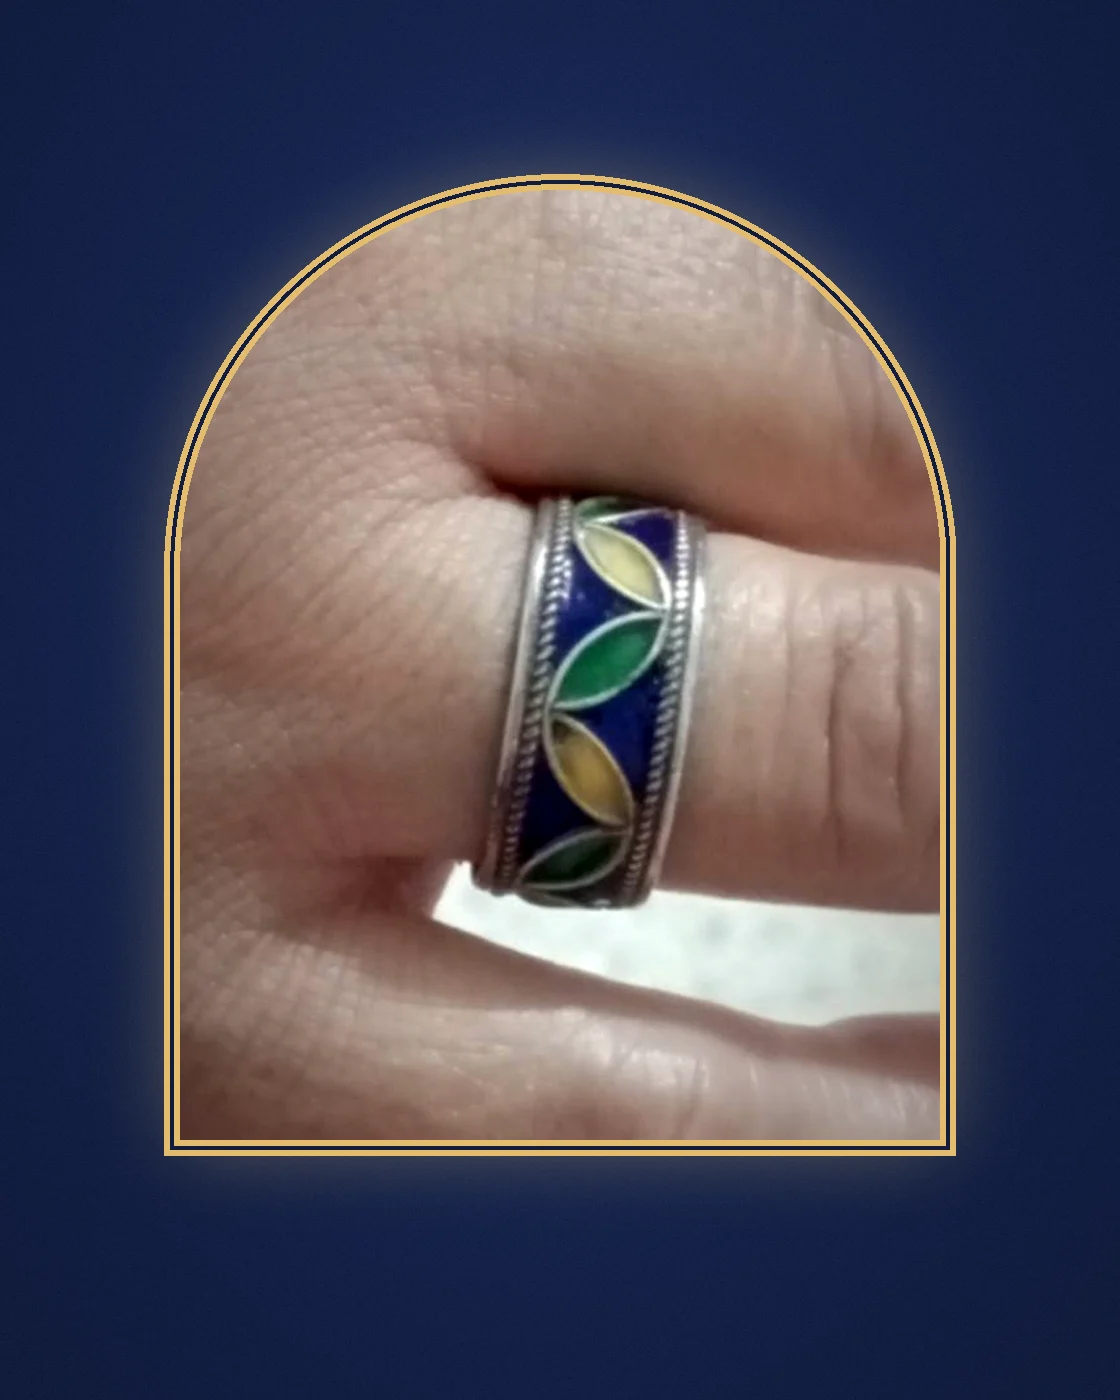
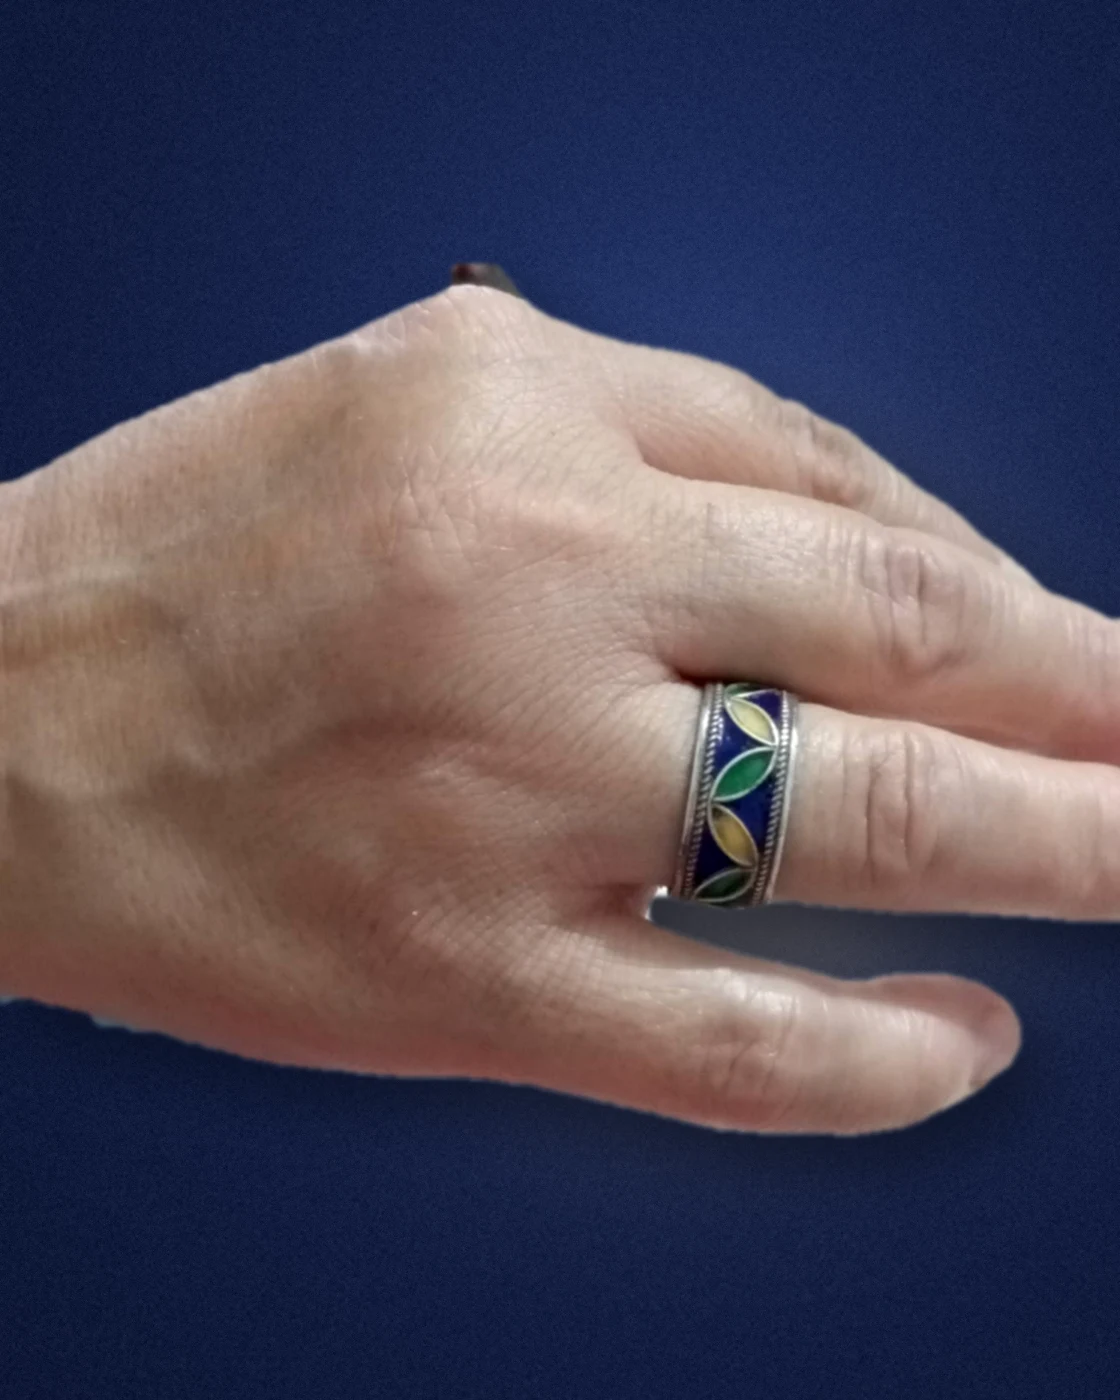
Livraison au tarif Colissimo 2026 selon le poids (sans signature), taille de doigt et supplément grandes tailles pour les bagues, nouvelles mises en scène des alliances
Claude-Session: https://claude.ai/code/session_014hYjydiWEDTx792WSyTSSe

diff --git a/src/maison.js b/src/maison.js
@@ -1,7 +1,7 @@
 // Données vivantes de la Maison : catalogue, fiche produit, panier, prochaine soirée.
 // Le navigateur n'utilise que la clé publique Supabase ; aucune donnée privée n'est lue ici.
 
-import { SHIPPING_METHODS, shippingFor, MAX_QTY, tvaIncluse, reglagesPropres } from '/assets/shipping.mjs';
+import { SHIPPING_METHODS, shippingFor, MAX_QTY, tvaIncluse, reglagesPropres, taillesDe, supplementTaille } from '/assets/shipping.mjs';
 
 // Frais d'envoi et TVA réglés par Lamia (le serveur recalcule toujours à la commande).
 let REGLAGES = reglagesPropres();
@@ -199,6 +199,8 @@ function preorderForm(p) {
     <h2>Acheter</h2>
     ${p.is_unique ? '<p class="fine">Pièce unique : dès qu’elle est achetée, elle n’est plus disponible.</p>' : ''}
     ${delai ? `<p class="delai-livraison">${delai}</p>` : ''}
+    ${taillesDe(p).length ? `<label>Taille de doigt<select name="taille" required><option value="">Choisis ta taille</option>${taillesDe(p).map((t) => `<option value="${t}">${t}${supplementTaille(p, t) ? ` (+${money(supplementTaille(p, t))})` : ''}</option>`).join('')}</select></label>
+    <details class="guide-taille"><summary>Comment connaître ta taille ?</summary><p>La taille française correspond au <strong>tour de ton doigt en millimètres</strong>. Entoure la base de ton doigt avec un fil ou une bande de papier, marque l’endroit où il se rejoint, puis mesure la longueur à plat : 54 mm = taille 54. Mesure en fin de journée, quand les doigts sont un peu plus gros, et en cas d’hésitation choisis la taille au-dessus.</p><p>Tu as déjà une bague qui te va ? Mesure son diamètre intérieur en mm et multiplie par 3,14 : c’est ta taille.</p></details>` : ''}
     ${max > 1 ? `<label>Quantité<select name="qty">${Array.from({ length: max }, (_, i) => `<option>${i + 1}</option>`).join('')}</select></label>` : '<input type="hidden" name="qty" value="1">'}
     ${digital ? '' : `<fieldset><legend>Livraison</legend>
       <label class="check"><input type="radio" name="method" value="colissimo" checked><span>${SHIPPING_METHODS.colissimo.label} <small data-ship-price></small><br><small>${SHIPPING_METHODS.colissimo.delay}</small></span></label>
@@ -238,7 +240,8 @@ function wirePreorder(p, box) {
     if (sp) sp.textContent = `(${money(col.cents)})`;
     const addr = $('[data-address]', form);
     if (addr) addr.hidden = ship.method !== 'colissimo';
-    const total = p.price_cents * qty + ship.cents, tva = tvaIncluse(total, REGLAGES.tva);
+    const unit = p.price_cents + (form.elements.taille ? supplementTaille(p, form.elements.taille.value) : 0);
+    const total = unit * qty + ship.cents, tva = tvaIncluse(total, REGLAGES.tva);
     $('[data-total]', form).textContent = `${money(total, p.currency)}${ship.cents ? ` dont ${money(ship.cents)} d’envoi` : ''}${tva ? ` · dont TVA ${String(REGLAGES.tva.taux).replace('.', ',')} % : ${money(tva)}` : ''}`;
   };
   form.addEventListener('change', update);
@@ -249,11 +252,12 @@ function wirePreorder(p, box) {
     const st = $('[data-preorder-status]', form);
     const f = form.elements;
     const say = (m, err) => { st.textContent = m; st.classList.toggle('is-error', !!err); };
+    if (f.taille && !f.taille.value) { f.taille.focus(); return say('Choisis ta taille de doigt pour continuer.', true); }
     if (!f.cgv.checked) return say('Coche la case des conditions de vente pour continuer.', true);
     const btn = form.querySelector('[type=submit]');
     btn.disabled = true; btn.textContent = 'Ouverture du paiement sécurisé…';
     const body = {
-      slug: p.slug, qty: f.qty.value, name: f.name.value, email: f.email.value, phone: f.phone.value,
+      slug: p.slug, qty: f.qty.value, taille: f.taille ? f.taille.value : undefined, name: f.name.value, email: f.email.value, phone: f.phone.value,
       method: f.method ? form.querySelector('[name=method]:checked').value : 'email',
       address: f.line1 ? { line1: f.line1.value, line2: f.line2.value, postal_code: f.postal_code.value, city: f.city.value } : null,
       message: f.message.value, website: f.website.value, cgv_accepted: true,
@@ -272,7 +276,7 @@ function wirePreorder(p, box) {
       form.innerHTML = `<h2>Merci, ta commande est enregistrée.</h2><p>Numéro de commande : <strong>${esc(r.order_number)}</strong></p><p>${r.waitlist ? 'Cette pièce unique est déjà réservée : tu es inscrite en liste d’attente. Lamia te prévient si elle se libère.' : `Lamia t’envoie par email le lien de paiement sécurisé. Total : ${money(r.total_cents)}.${delaiLivraison(p) ? ` ${delaiLivraison(p).replace(/<[^>]+>/g, '')}` : ''}`}</p>`;
       return;
     }
-    const msg = { invalid_contact: 'Vérifie ton nom et ton adresse email.', invalid_address: 'Vérifie ton adresse : rue, code postal à 5 chiffres et ville.', product_unavailable: 'Cette pièce vient d’être vendue, désolée.', paiement_en_cours: 'Quelqu’un est en train d’acheter cette pièce. Reviens dans 30 minutes : si le paiement n’aboutit pas, elle sera de nouveau disponible.', stock_insuffisant: `Il n’en reste que ${r.stock}. Choisis une quantité plus petite.`, paiement_indisponible: 'Le paiement sécurisé ne répond pas pour le moment. Réessaie dans un instant.' };
+    const msg = { invalid_contact: 'Vérifie ton nom et ton adresse email.', invalid_address: 'Vérifie ton adresse : rue, code postal à 5 chiffres et ville.', product_unavailable: 'Cette pièce vient d’être vendue, désolée.', paiement_en_cours: 'Quelqu’un est en train d’acheter cette pièce. Reviens dans 30 minutes : si le paiement n’aboutit pas, elle sera de nouveau disponible.', stock_insuffisant: `Il n’en reste que ${r.stock}. Choisis une quantité plus petite.`, paiement_indisponible: 'Le paiement sécurisé ne répond pas pour le moment. Réessaie dans un instant.', taille_requise: 'Choisis ta taille de doigt pour continuer.' };
     say(msg[r.error] || 'Le paiement n’a pas pu s’ouvrir. Réessaie dans un instant.', true);
   });
 }

diff --git a/public/tableau.js b/public/tableau.js
@@ -186,7 +186,7 @@ async function chargerReglages() {
   try {
     const r = await (await fetch('/api/admin?action=boutique', { cache: 'no-store' })).json();
     const f = $('[data-reglages]');
-    for (const k of ['colis_1', 'colis_2_3', 'colis_4_plus', 'bijou']) f.elements[k].value = (r.tarifs[k] / 100).toFixed(2);
+    for (const k of ['g250', 'g500', 'g750', 'g1000', 'g2000', 'g5000']) f.elements[k].value = (r.tarifs[k] / 100).toFixed(2);
     f.elements.tva_active.checked = r.tva.active; f.elements.tva_taux.value = r.tva.taux; f.elements.tva_mention.value = r.tva.mention || '';
   } catch { /* */ }
 }
@@ -195,7 +195,7 @@ $('[data-reglages]')?.addEventListener('submit', async (e) => {
   const f = e.target, st = $('[data-reglages-status]');
   const c = (k) => Math.round(parseFloat(String(f.elements[k].value).replace(',', '.')) * 100);
   try {
-    await api({ action: 'boutique_save', reglages: { tarifs: { colis_1: c('colis_1'), colis_2_3: c('colis_2_3'), colis_4_plus: c('colis_4_plus'), bijou: c('bijou') }, tva: { active: f.elements.tva_active.checked, taux: Number(f.elements.tva_taux.value), mention: f.elements.tva_mention.value } } });
+    await api({ action: 'boutique_save', reglages: { tarifs: Object.fromEntries(['g250', 'g500', 'g750', 'g1000', 'g2000', 'g5000'].map((k) => [k, c(k)])), tva: { active: f.elements.tva_active.checked, taux: Number(f.elements.tva_taux.value), mention: f.elements.tva_mention.value } } });
     st.textContent = 'Réglages enregistrés. Pense à « Publier » pour mettre à jour les conditions de vente.';
   } catch (err) { st.textContent = err.message; }
 });
@@ -228,6 +228,12 @@ function editer(p) {
     f.elements.is_unique.checked = !!p.is_unique; f.elements.featured.checked = !!p.featured;
     edition.photos = (Array.isArray(p.gallery) ? p.gallery : []).map((g) => (typeof g === 'string' ? { url: g } : g)).filter((g) => g.url);
     edition.metadata = p.metadata;
+    const m = p.metadata || {};
+    f.elements.poids_colis_g.value = m.poids_colis_g || '';
+    const t = Array.isArray(m.tailles) ? m.tailles : [];
+    f.elements.tailles.value = t.length ? `${Math.min(...t)}-${Math.max(...t)}` : '';
+    f.elements.supp_cents.value = m.supplement_taille?.cents ? (m.supplement_taille.cents / 100).toFixed(2) : '';
+    f.elements.supp_seuil.value = m.supplement_taille?.a_partir_de || '';
     // Le collier a des photos d'origine intégrées au site : on les propose pour pouvoir les réordonner ou les remplacer.
     if (!edition.photos.length && p.slug === 'collier-kabyle-argente-emaille-15g') edition.photos = ['hero', 'porte', 'detail', 'ecrin'].map((v) => ({ url: `/images/collier/collier-kabyle-15g-${v}-1120.webp` }));
     const voir = $('[data-produit-voir]'); voir.hidden = false; voir.href = `/produit/?p=${encodeURIComponent(p.slug)}`;
@@ -280,11 +286,18 @@ $('[data-produit-form]').addEventListener('submit', async (e) => {
   e.preventDefault();
   const f = e.target, st = $('[data-produit-status]');
   const val = (k) => f.elements[k].value;
+  // Poids d'envoi, tailles de bague et supplément : rangés dans les informations du produit.
+  const meta = { ...(edition.metadata || {}) };
+  const poids = parseInt(val('poids_colis_g'), 10); if (poids > 0) meta.poids_colis_g = poids; else delete meta.poids_colis_g;
+  const mt = String(val('tailles')).match(/(\d{2})\s*[-–à]\s*(\d{2})/);
+  if (mt) { const [a, b] = [Number(mt[1]), Number(mt[2])].sort((x, y) => x - y); meta.tailles = Array.from({ length: b - a + 1 }, (_, i) => a + i); } else delete meta.tailles;
+  const sc = Math.round(parseFloat(String(val('supp_cents')).replace(',', '.')) * 100), ss = parseInt(val('supp_seuil'), 10);
+  if (meta.tailles && sc > 0 && ss) meta.supplement_taille = { cents: sc, a_partir_de: ss }; else delete meta.supplement_taille;
   const product = {
     id: val('id') || undefined, slug: val('slug') || undefined, name: val('name'), subtitle: val('subtitle'), description: val('description'),
     price_cents: Math.round(parseFloat(val('price').replace(',', '.')) * 100), compare_at_price_cents: val('compare') ? Math.round(parseFloat(val('compare').replace(',', '.')) * 100) : null,
     stock_qty: Number(val('stock_qty')), category_id: val('category_id'), product_type: val('product_type'), status: val('status'),
-    is_unique: f.elements.is_unique.checked, featured: f.elements.featured.checked, gallery: edition.photos, metadata: edition.metadata,
+    is_unique: f.elements.is_unique.checked, featured: f.elements.featured.checked, gallery: edition.photos, metadata: meta,
   };
   st.textContent = 'Enregistrement…';
   try {

diff --git a/public/tableau-de-bord.html b/public/tableau-de-bord.html
@@ -78,12 +78,14 @@
 
     <form class="tdb-carte reglages" data-reglages>
       <h2>Livraison et TVA</h2>
-      <p class="aide">Ces montants s’appliquent tout de suite aux commandes. Les conditions de vente se mettent à jour quand tu cliques sur « Publier » (onglet Textes &amp; images).</p>
+      <p class="aide">Envoi Colissimo suivi, sans signature, selon le poids du colis (grille La Poste 2026 par défaut). Le poids de chaque produit se règle dans sa fiche. Ces montants s’appliquent tout de suite aux commandes. Les conditions de vente se mettent à jour quand tu cliques sur « Publier » (onglet Textes &amp; images).</p>
       <div class="champs">
-        <label>Envoi livre ou objet, 1 exemplaire (€)<input name="colis_1" type="number" step="0.01" min="0"></label>
-        <label>2 ou 3 exemplaires (€)<input name="colis_2_3" type="number" step="0.01" min="0"></label>
-        <label>4 exemplaires et plus (€)<input name="colis_4_plus" type="number" step="0.01" min="0"></label>
-        <label>Envoi d’un bijou, suivi et assuré (€)<input name="bijou" type="number" step="0.01" min="0"></label>
+        <label>Colis jusqu’à 250 g (€)<input name="g250" type="number" step="0.01" min="0"></label>
+        <label>Colis jusqu’à 500 g (€)<input name="g500" type="number" step="0.01" min="0"></label>
+        <label>Colis jusqu’à 750 g (€)<input name="g750" type="number" step="0.01" min="0"></label>
+        <label>Colis jusqu’à 1 kg (€)<input name="g1000" type="number" step="0.01" min="0"></label>
+        <label>Colis jusqu’à 2 kg (€)<input name="g2000" type="number" step="0.01" min="0"></label>
+        <label>Colis jusqu’à 5 kg (€)<input name="g5000" type="number" step="0.01" min="0"></label>
       </div>
       <h3>TVA</h3>
       <p class="aide">À activer seulement quand ton statut le prévoit (avec l’accord de ton comptable). Tes prix restent des prix TTC : le site affiche la part de TVA comprise.</p>
@@ -109,6 +111,10 @@
         <label>Rayon<select name="category_id" data-categories></select></label>
         <label>Type<select name="product_type"><option value="physical">Objet à expédier</option><option value="digital">Numérique (ebook…)</option><option value="service">Service</option></select></label>
         <label>Visibilité<select name="status"><option value="active">En vente sur le site</option><option value="draft">Brouillon (caché)</option><option value="archived">Archivé</option></select></label>
+        <label>Poids du colis emballé (g)<input name="poids_colis_g" type="number" min="1" step="1" placeholder="ex. 120 pour un bijou"></label>
+        <label>Tailles de bague proposées<input name="tailles" placeholder="ex. 50-64 (vide si ce n’est pas une bague)"></label>
+        <label>Supplément grandes tailles (€)<input name="supp_cents" type="number" step="0.01" min="0" placeholder="ex. 5"></label>
+        <label>… à partir de la taille<input name="supp_seuil" type="number" min="40" max="75" step="1" placeholder="ex. 60"></label>
         <label class="case"><input type="checkbox" name="is_unique"> Pièce unique (un seul exemplaire)</label>
         <label class="case"><input type="checkbox" name="featured"> Mettre en avant</label>
       </div>

diff --git a/src/maison.css b/src/maison.css
@@ -2519,3 +2519,6 @@ body[data-ambiance="salon"] .videos-haut h2 { color: #fff4e0; }
 .paiement-sur { margin-top: 12px; padding: 12px 14px; border: 1px solid rgba(46,125,80,.35); background: rgba(46,125,80,.06); border-radius: 10px; font-size: 14px; line-height: 1.5; }
 .paiement-sur p { margin: 0 0 6px; }
 .paiement-sur p:last-child { margin: 0; }
+.guide-taille { margin: -4px 0 14px; font-size: 14px; }
+.guide-taille summary { cursor: pointer; text-decoration: underline; }
+.guide-taille p { margin: 8px 0 0; line-height: 1.5; }
